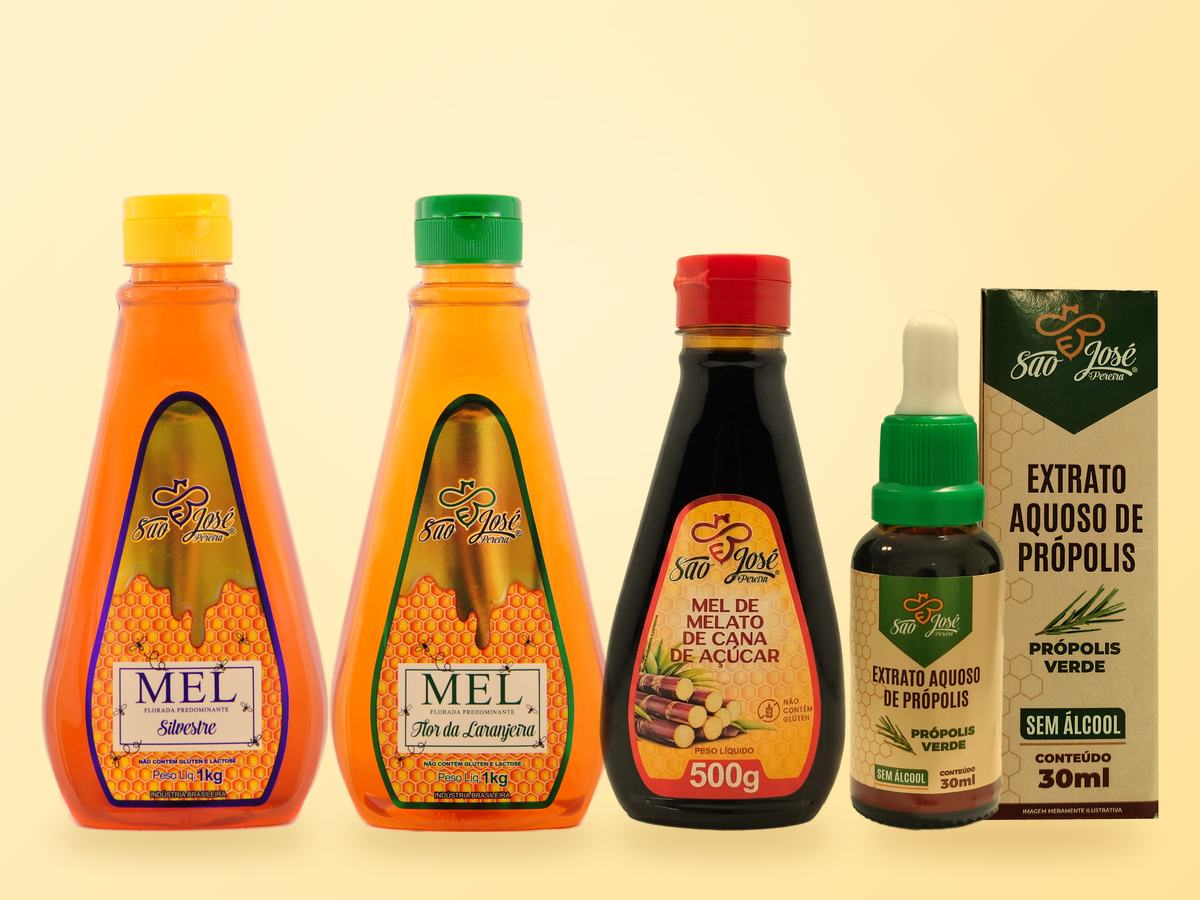
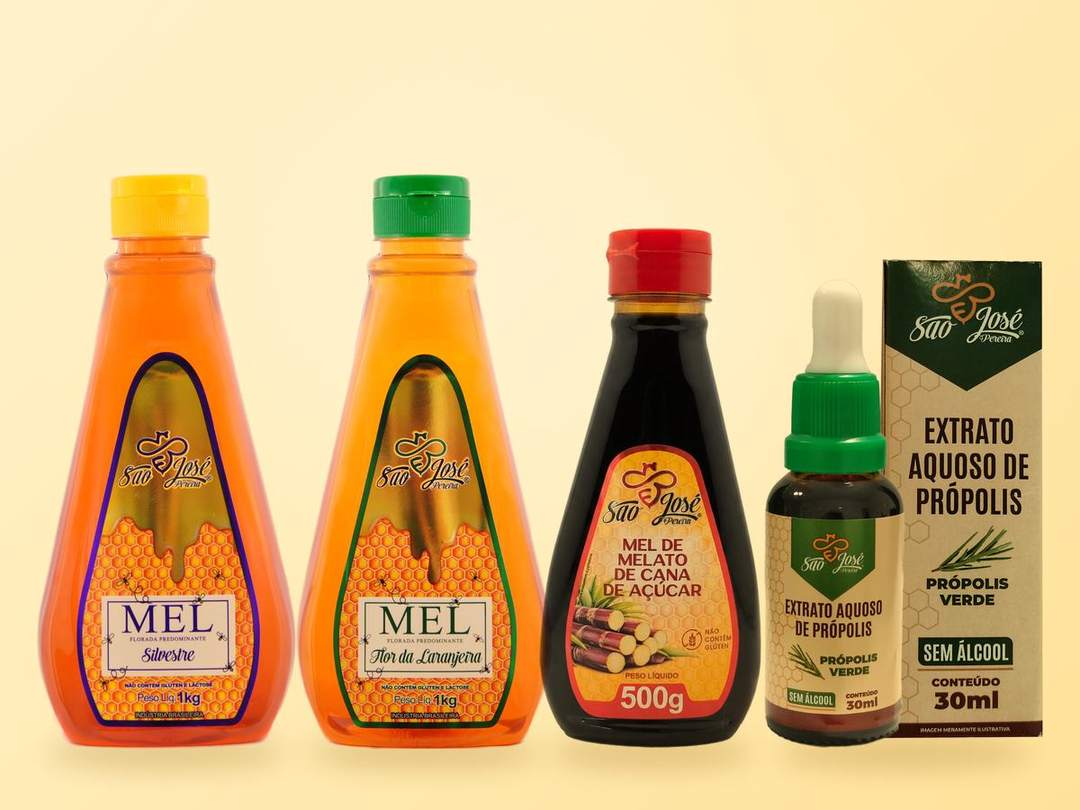
V2.11: dados estruturados Product, llms.txt e hero mais leve
Claude-Session: https://claude.ai/code/session_01RruDj2PQKMaoP8q4dxkC68

diff --git a/index.html b/index.html
@@ -1,5 +1,5 @@
 <!DOCTYPE html>
-<!-- Site Mel São José - V2.10 -->
+<!-- Site Mel São José - V2.11 -->
 <html lang="pt-BR">
 <head>
   <meta charset="UTF-8">
@@ -32,7 +32,7 @@
       "alternateName": "Casa do Mel São José",
       "legalName": "Indústria e Comércio de Produtos Apícola São José Ltda",
       "url": "https://melsaojose.com.br/",
-         "image": "https://melsaojose.com.br/assets/og-image.jpg",
+      "image": "https://melsaojose.com.br/assets/og-image.jpg",
       "foundingDate": "2002",
       "taxID": "22.529.548/0001-66",
       "description": "Mel e produtos apícolas desde 2002, em Maringá-PR, com Inspeção Federal (S.I.F).",
@@ -69,6 +69,141 @@
       "publisher": {
         "@id": "https://melsaojose.com.br/#organizacao"
       }
+    },
+    {
+      "@type": "Product",
+      "@id": "https://melsaojose.com.br/#produto-silvestre",
+      "name": "Mel Silvestre",
+      "description": "Mel de floradas variadas, com sabor marcante e equilibrado. Versátil para adoçar bebidas, pães, frutas e receitas do dia a dia.",
+      "image": "https://melsaojose.com.br/assets/silvestre-1kg-frente.jpg",
+      "brand": {
+        "@type": "Brand",
+        "name": "Mel São José"
+      },
+      "manufacturer": {
+        "@id": "https://melsaojose.com.br/#organizacao"
+      },
+      "url": "https://melsaojose.com.br/#produtos"
+    },
+    {
+      "@type": "Product",
+      "@id": "https://melsaojose.com.br/#produto-laranjeira",
+      "name": "Mel de Flor de Laranjeira",
+      "description": "Mel claro, suave e de aroma delicado, que lembra as flores da laranjeira. Ideal para quem prefere um sabor mais leve.",
+      "image": "https://melsaojose.com.br/assets/laranjeira-1kg-frente.jpg",
+      "brand": {
+        "@type": "Brand",
+        "name": "Mel São José"
+      },
+      "manufacturer": {
+        "@id": "https://melsaojose.com.br/#organizacao"
+      },
+      "url": "https://melsaojose.com.br/#produtos"
+    },
+    {
+      "@type": "Product",
+      "@id": "https://melsaojose.com.br/#produto-melato",
+      "name": "Mel de Melato de Cana-de-Açúcar",
+      "description": "Diferente dos demais méis, não é elaborado a partir de flores, mas da seiva da cana dos canaviais queimados ou cortados. É muito escuro e pouco viscoso, com forte aroma de rapadura.",
+      "image": "https://melsaojose.com.br/assets/melato-500-frente.jpg",
+      "brand": {
+        "@type": "Brand",
+        "name": "Mel São José"
+      },
+      "manufacturer": {
+        "@id": "https://melsaojose.com.br/#organizacao"
+      },
+      "url": "https://melsaojose.com.br/#produtos"
+    },
+    {
+      "@type": "Product",
+      "@id": "https://melsaojose.com.br/#produto-jatai",
+      "name": "Mel de Abelha sem Ferrão (Jataí)",
+      "description": "Mel da abelha nativa Jataí, de sabor delicado e característico.",
+      "image": "https://melsaojose.com.br/assets/jatai-200-frente.jpg",
+      "brand": {
+        "@type": "Brand",
+        "name": "Mel São José"
+      },
+      "manufacturer": {
+        "@id": "https://melsaojose.com.br/#organizacao"
+      },
+      "url": "https://melsaojose.com.br/#produtos"
+    },
+    {
+      "@type": "Product",
+      "@id": "https://melsaojose.com.br/#produto-propolis-marrom",
+      "name": "Extrato de Própolis Marrom",
+      "description": "Extrato de própolis marrom, produzido a partir da própolis das nossas colmeias.",
+      "image": "https://melsaojose.com.br/assets/produto-propolis-marrom.jpg",
+      "brand": {
+        "@type": "Brand",
+        "name": "Mel São José"
+      },
+      "manufacturer": {
+        "@id": "https://melsaojose.com.br/#organizacao"
+      },
+      "url": "https://melsaojose.com.br/#produtos"
+    },
+    {
+      "@type": "Product",
+      "@id": "https://melsaojose.com.br/#produto-propolis-verde",
+      "name": "Extrato de Própolis Verde",
+      "description": "Extrato de própolis verde, de coloração e aroma característicos.",
+      "image": "https://melsaojose.com.br/assets/produto-propolis-verde.jpg",
+      "brand": {
+        "@type": "Brand",
+        "name": "Mel São José"
+      },
+      "manufacturer": {
+        "@id": "https://melsaojose.com.br/#organizacao"
+      },
+      "url": "https://melsaojose.com.br/#produtos"
+    },
+    {
+      "@type": "Product",
+      "@id": "https://melsaojose.com.br/#produto-propolis-aquoso",
+      "name": "Extrato Aquoso de Própolis Verde",
+      "description": "Extrato de própolis verde em base aquosa, sem álcool. Embalagem com conta-gotas.",
+      "image": "https://melsaojose.com.br/assets/produto-propolis-aquoso.jpg",
+      "brand": {
+        "@type": "Brand",
+        "name": "Mel São José"
+      },
+      "manufacturer": {
+        "@id": "https://melsaojose.com.br/#organizacao"
+      },
+      "url": "https://melsaojose.com.br/#produtos"
+    },
+    {
+      "@type": "Product",
+      "@id": "https://melsaojose.com.br/#produto-spray",
+      "name": "Spray de Mel e Extrato de Própolis",
+      "description": "Spray de mel com extrato de própolis, nos sabores eucalipto e copaíba e gengibre e romã.",
+      "image": "https://melsaojose.com.br/assets/produto-spray.jpg",
+      "brand": {
+        "@type": "Brand",
+        "name": "Mel São José"
+      },
+      "manufacturer": {
+        "@id": "https://melsaojose.com.br/#organizacao"
+      },
+      "url": "https://melsaojose.com.br/#produtos"
+    },
+    {
+      "@type": "Product",
+      "@id": "https://melsaojose.com.br/#produto-composto",
+      "name": "Composto de Mel e Extrato de Própolis",
+      "description": "Composto de mel com extrato de própolis, nos sabores gengibre e romã e eucalipto e romã.",
+      "image": "https://melsaojose.com.br/assets/produto-composto.jpg",
+      "brand": {
+        "@type": "Brand",
+        "name": "Mel São José"
+      },
+      "manufacturer": {
+        "@id": "https://melsaojose.com.br/#organizacao"
+      },
+      "url": "https://melsaojose.com.br/#produtos"
     }
   ]
 }
@@ -118,7 +253,7 @@
       <div class="hero-visual">
         <div class="hex hex-1"></div><div class="hex hex-2"></div>
         <div class="foto hero-img" data-rotulo="Foto principal">
-          <img src="assets/hero.jpg" width="1200" height="900" decoding="async" fetchpriority="high" alt="Produtos Mel São José" onerror="this.remove()">
+          <img src="assets/hero.jpg" width="1080" height="810" decoding="async" fetchpriority="high" alt="Produtos Mel São José" onerror="this.remove()">
         </div>
       </div>
     </div>

diff --git a/README.md b/README.md
@@ -89,3 +89,9 @@ Para adicionar mais marcos, copie um bloco `<div class="marco reveal">` em `inde
 
 ## V2.10 — Hero com o Melato novo
 - `hero.jpg` refeito com a foto atual do Mel de Melato (tampa vermelha), mantendo Silvestre 1 kg, Flor de Laranjeira 1 kg e Extrato Aquoso de Própolis (113 KB).
+
+## V2.11 — SEO de produtos e IA
+- Dados estruturados `Product` (schema.org) para 9 produtos (4 méis e 5 derivados de própolis), ligados à organização. Sem preço nem estoque, de propósito: a venda é por WhatsApp e não há preço público; não foram inventados dados. O pólen ficou de fora (sem foto).
+- `llms.txt` criado na raiz, com resumo da empresa, páginas e contatos.
+- `hero.jpg` reduzido de 113 KB para cerca de 80 KB (1200x900 → 1080x810, mesma proporção).
+- Versões: index.html V2.11, robots.txt e sitemap.xml V2.11 (script.js e style.css seguem V2.9).
